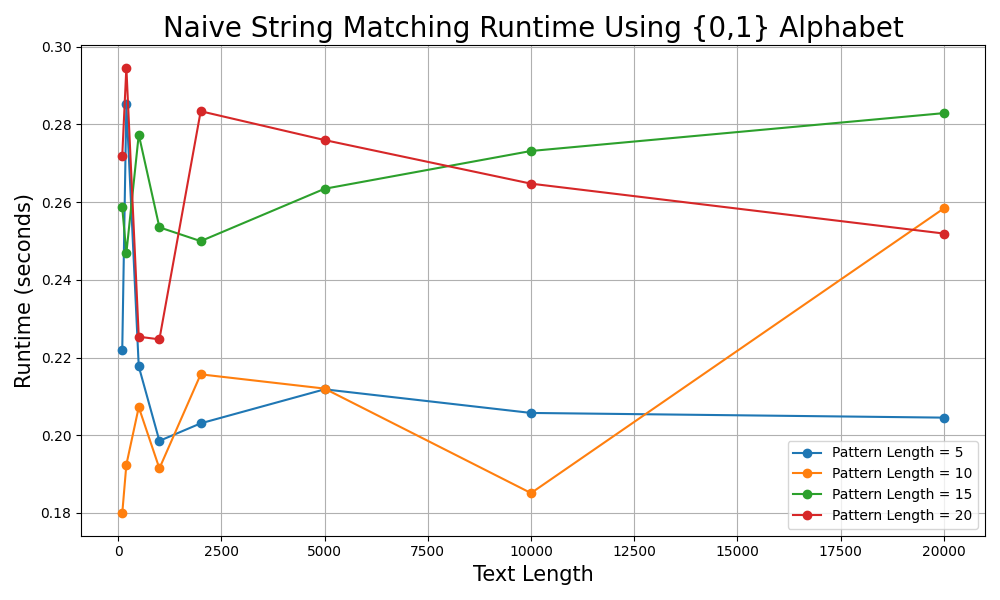
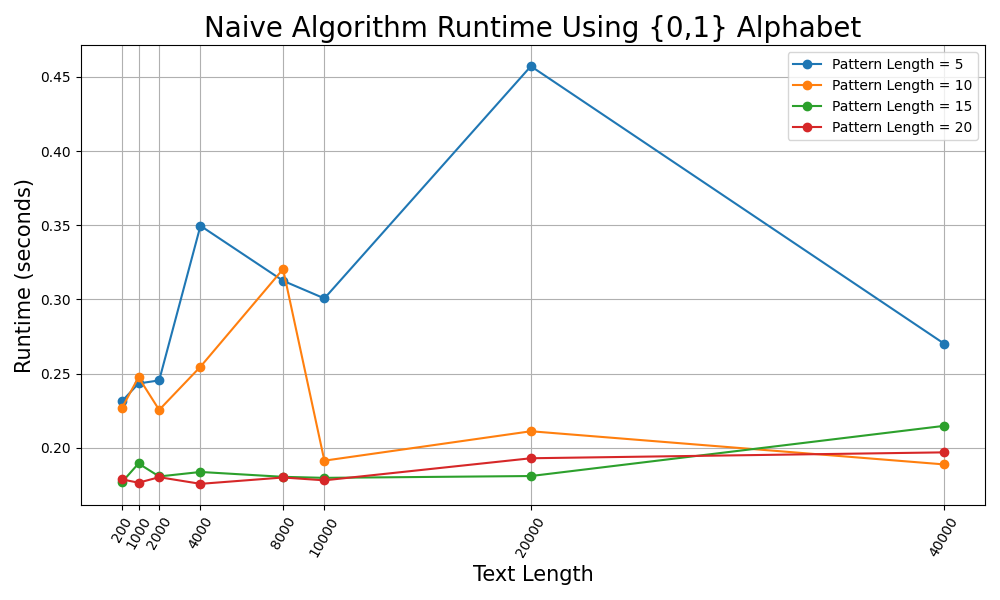
Finished KMP. Added some plots

diff --git a/AlgoBio1/src/blatt4/plots/PlotsStringMatching.py b/AlgoBio1/src/blatt4/plots/PlotsStringMatching.py
@@ -11,9 +11,17 @@ ALPHABET3 = list(string.ascii_letters + string.digits)
 def generate_random_string(length, alphabet):
     return ''.join(random.choice(alphabet) for _ in range(length))
 
+
+def generate_random_substring(input_string, n):
+    if n > len(input_string)//2:
+        raise ValueError("Substring length cannot be greater than half of the input string length")
+
+    start_index = random.randint(len(input_string)//2, len(input_string) - n) #a substring at the second half of the text
+    return input_string[start_index:start_index + n]
+
 # Lengths of text and pattern to test
-text_lengths = [100, 200, 500, 1000, 2000, 5000, 10000, 20000]
-pattern_lengths = [5, 10, 15, 20]  # List of pattern lengths to test
+text_lengths = [200,1000, 2000, 4000, 8000, 10000, 20000, 40000]
+pattern_lengths = [10, 20]  # List of pattern lengths to test
 
 
 def plot_runtime(alphabet):
@@ -38,11 +46,11 @@ def plot_runtime(alphabet):
             avg_runtime = 0
             for _ in range(10):
                 text = generate_random_string(length, alphabet)
-                pattern = generate_random_string(pattern_length, alphabet)
+                pattern = generate_random_substring(text,pattern_length)
                 start_time = time.time()
                 subprocess.run(
                     ['java', '-jar',
-                     "/home/trucbui/GitHub/AlgoBio1Git/AlgoBio1/out/artifacts/NaiveStringMatching_jar_jar/NaiveStringMatching.jar",
+                     "/home/trucbui/GitHub/AlgoBio1Git/AlgoBio1/out/artifacts/Naive_jar/Naive.jar",
                      "-t", text, "-p", pattern], stdout=subprocess.DEVNULL, stderr=subprocess.DEVNULL)
                 end_time = time.time()
                 avg_runtime += (end_time - start_time)
@@ -52,18 +60,86 @@ def plot_runtime(alphabet):
         # Plot the results for current pattern length
         plt.plot(text_lengths, runtimes, marker='o', label=f'Pattern Length = {pattern_length}')
 
-    plt.title('Naive String Matching Runtime Using ' + used_alpabet,size=20)
+    plt.title('Naive Algorithm Runtime Using ' + used_alpabet,size=20)
     plt.xlabel('Text Length',size=15)
     plt.ylabel('Runtime (seconds)',size=15)
     plt.legend()
     plt.grid(True)
-    #plt.xticks(text_lengths)
+    plt.xticks(text_lengths, rotation=60)
     plt.tight_layout()
     plt.savefig('/home/trucbui/PycharmProjects/Plots/naive_string_matching_runtime_' + str(plotname)+ ".png")
     #plt.show()
 
 
+def plot_runtime_comparison(alphabet):
+    used_alpabet = ""
+    plotname = 0
+    if alphabet == ALPHABET1:
+        used_alpabet = "{0,1} Alphabet"
+        plotname = 1
+    elif alphabet == ALPHABET2:
+        used_alpabet = "{A,T,G,C} Alphabet"
+        plotname = 2
+    elif alphabet == ALPHABET3:
+        used_alpabet = "Alphanumeric Alphabet"
+        plotname = 3
+
+    plt.figure(figsize=(15, 8))  # Adjust figure size if needed
+
+    for pattern_length in pattern_lengths:
+        naive_runtimes = []
+        kmp_runtimes = []
+
+        for length in text_lengths:
+            # Generate random text and pattern
+            text = generate_random_string(length, alphabet)
+            pattern = generate_random_substring(text, pattern_length)
+
+            # Measure runtime for Naive String Matching
+            start_time = time.time()
+            subprocess.run(
+                ['java', '-jar',
+                 "/home/trucbui/GitHub/AlgoBio1Git/AlgoBio1/out/artifacts/Naive_jar/Naive.jar",
+                 "-t", text, "-p", pattern], stdout=subprocess.DEVNULL, stderr=subprocess.DEVNULL)
+            end_time = time.time()
+            naive_runtime = end_time - start_time
+            naive_runtimes.append(naive_runtime)
+
+            # Measure runtime for KMP Algorithm
+            start_time = time.time()
+            subprocess.run(
+                ['java', '-jar',
+                 "/home/trucbui/GitHub/AlgoBio1Git/AlgoBio1/out/artifacts/KMP_jar/KMP.jar",
+                 "-t", text, "-p", pattern], stdout=subprocess.DEVNULL, stderr=subprocess.DEVNULL)
+            end_time = time.time()
+            kmp_runtime = end_time - start_time
+            kmp_runtimes.append(kmp_runtime)
+
+        # Plot the results for current pattern length
+        plt.plot(text_lengths, naive_runtimes, marker='o', linestyle='-',
+                 label=f'Naive (Pattern Length = {pattern_length})')
+        plt.plot(text_lengths, kmp_runtimes, marker='s', linestyle='--',
+                 label=f'KMP (Pattern Length = {pattern_length})')
+
+    plt.title('Naive vs KMP Algorithm Runtime Comparison With ' + used_alpabet,size=20)
+    plt.xlabel('Text Length')
+    plt.ylabel('Runtime (seconds)')
+    plt.legend()
+    plt.grid(True)
+    plt.xticks(text_lengths, rotation=60)
+    plt.tight_layout()
+
+    # Save the plot to a file
+    plt.savefig('/home/trucbui/PycharmProjects/Plots/runtime_comparison_' + str(plotname)+".png")
+
+    plt.show()
+
+
 # Call the function to plot
-plot_runtime(ALPHABET1)
-plot_runtime(ALPHABET2)
-plot_runtime(ALPHABET3)
+#plot_runtime(ALPHABET1)
+#plot_runtime(ALPHABET2)
+#plot_runtime(ALPHABET3)
+
+plot_runtime_comparison(ALPHABET1)
+plot_runtime_comparison(ALPHABET2)
+plot_runtime_comparison(ALPHABET3)

diff --git a/AlgoBio1/src/blatt4/KMP.java b/AlgoBio1/src/blatt4/KMP.java
@@ -2,20 +2,37 @@ package blatt4;
 
 import org.apache.commons.cli.*;
 
-public class NaiveStringMatching {
-    public static int naiveSearching(String t, String p) {
+public class KMP {
+    public static int KnuthMorrisPratt(String t, String p) {
         char[] text = t.toCharArray();
         char[] pattern = p.toCharArray();
-        int i=0,j=0;
-        while (i<= t.length()-p.length()) {
+        int[] border = new int[p.length()+1];
+        computeBorder(border, pattern);
+
+        int i = 0, j = 0;
+        while(i < text.length-pattern.length+1) {
             while (text[i+j] == pattern[j]) {
                 j++;
-                if (j==p.length()) return i;
+                if (j == pattern.length) return i;
+            }
+            i += j-border[j];
+            j = Math.max(0, border[j]);
+        }
+        return -1;
+    }
+
+    public static void computeBorder(int[]border, char[]s) {
+        border[0] = -1;
+        border[1] = 0;
+
+        int i = border[1];
+        for (int j=2; j<=s.length;j++) {
+            while ((i>=0) && (s[i] != s[j-1])) {
+                i = border[i];
             }
             i++;
-            j=0;
+            border[j]=i;
         }
-        return -1; //Pattern not found in text
     }
 
     public static void main(String[] args) {
@@ -24,8 +41,7 @@ public class NaiveStringMatching {
         options.addOption("p", "pattern", true, "input pattern");
         CommandLineParser parser = new BasicParser();
 
-        System.out.println("String Matching with naive algorithm");
-
+        System.out.println("String Matching with KMP algorithm");
         String t;
         String p;
 
@@ -49,7 +65,7 @@ public class NaiveStringMatching {
         System.out.println("Text: " + t);
         System.out.println("Pattern: " + p);
         long startTime = System.nanoTime();
-        int result = naiveSearching(t, p);
+        int result = KnuthMorrisPratt(t, p);
         long endTime = System.nanoTime();
         if (result != -1) {
             System.out.println("Pattern found at index " + result);
